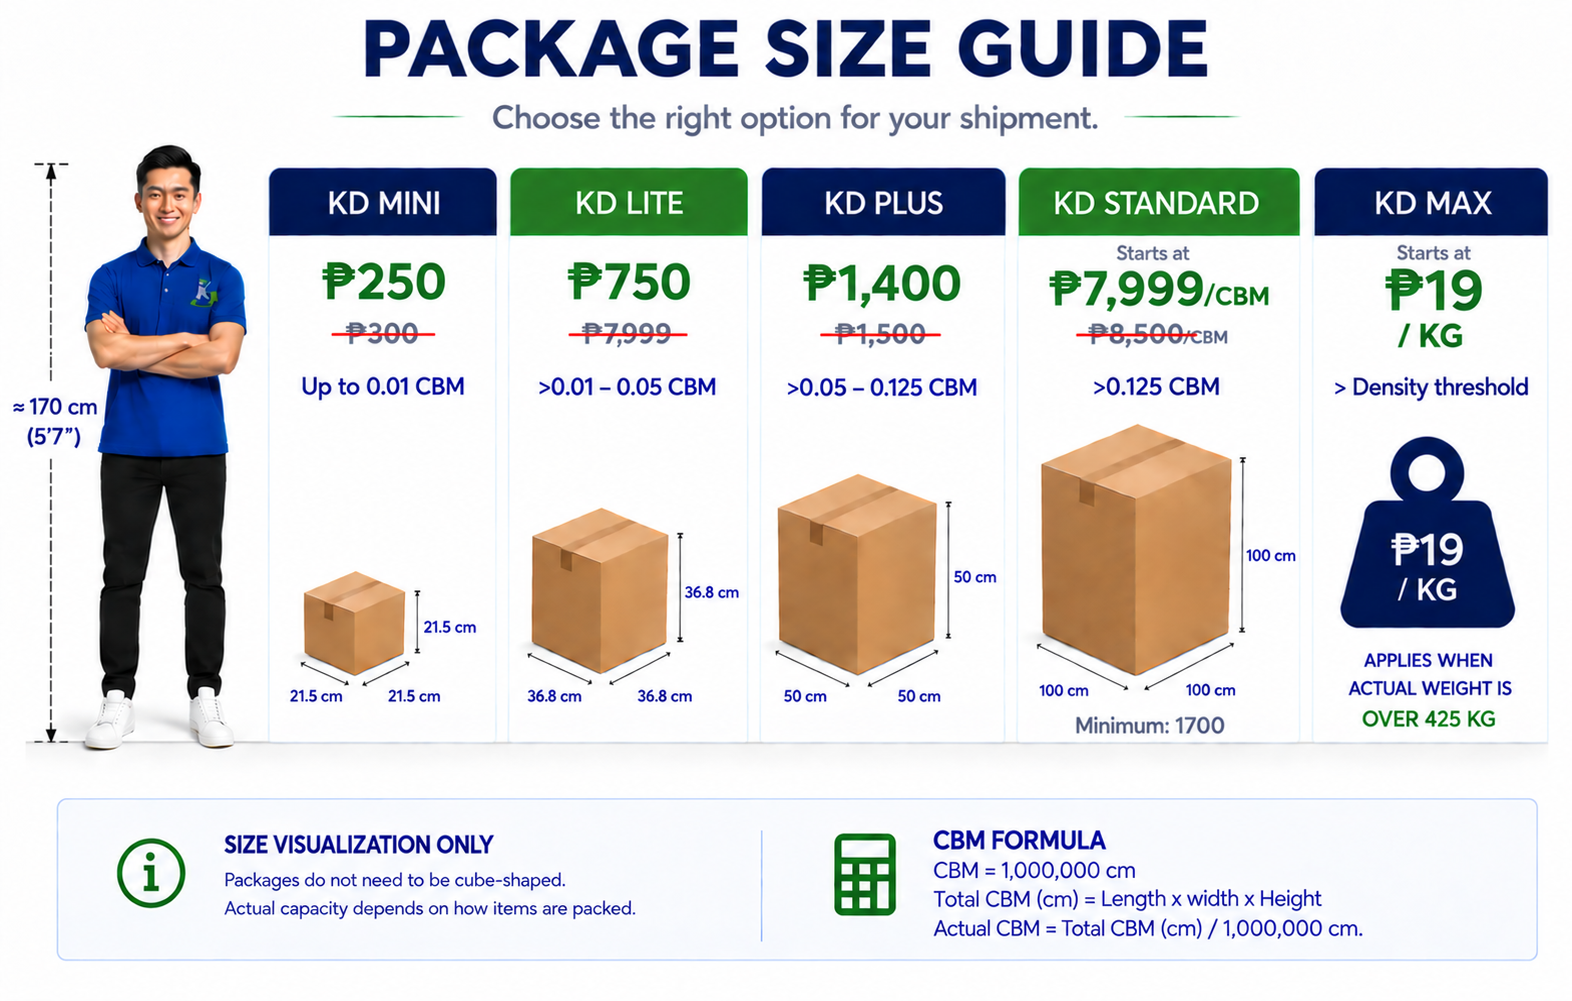
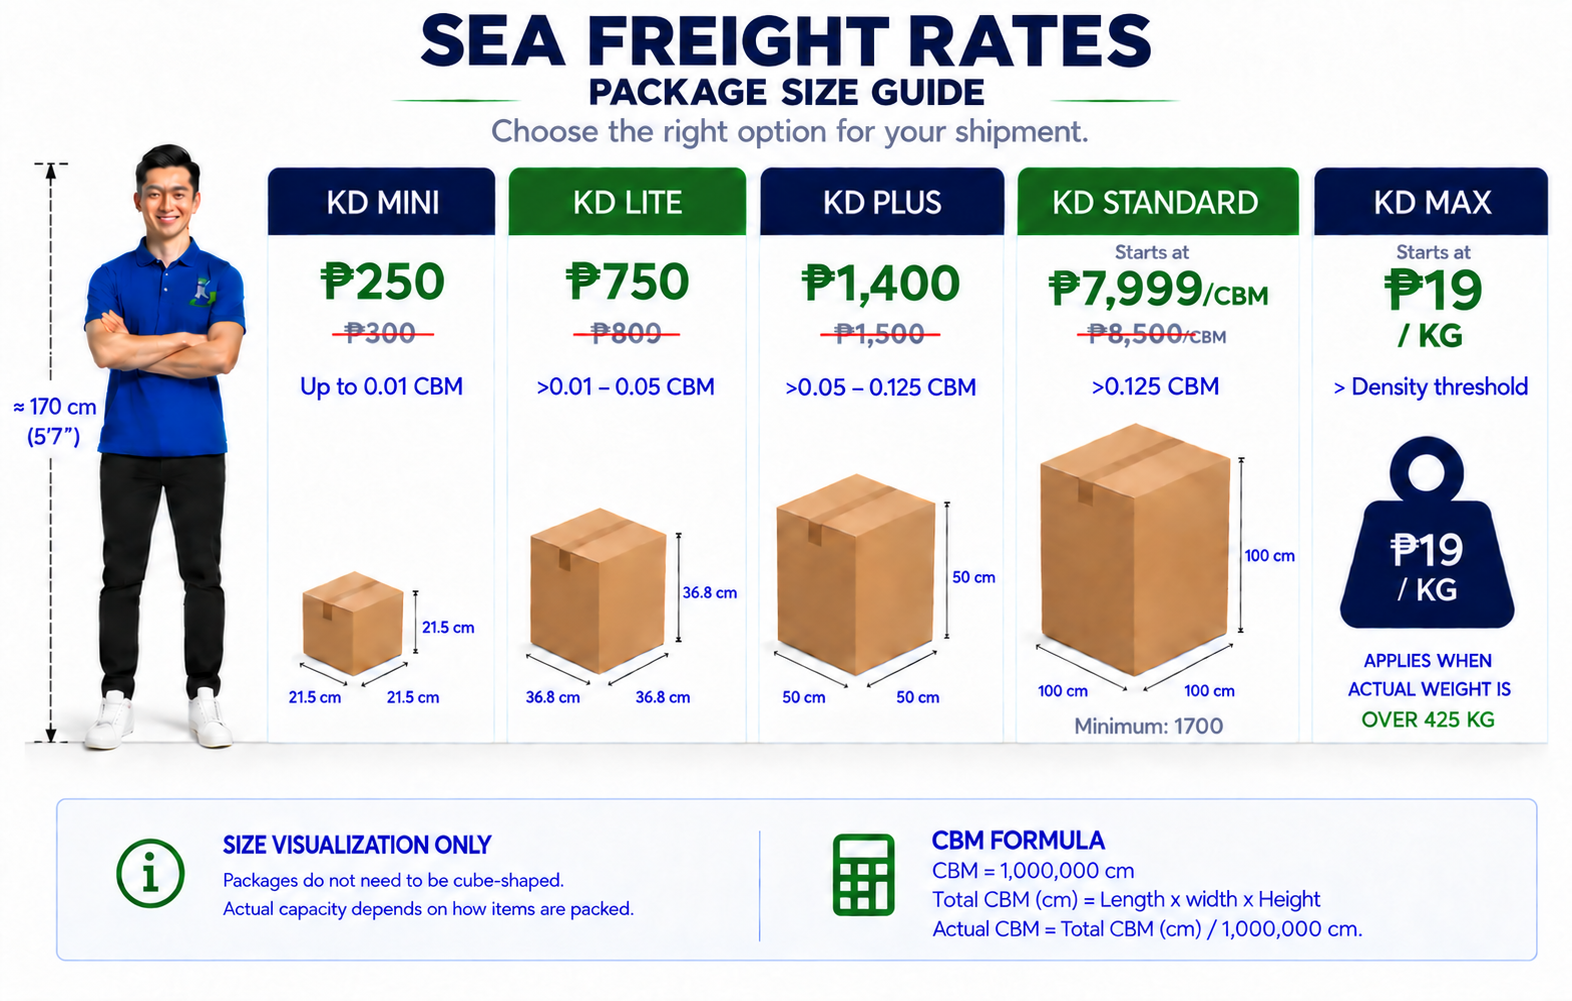
feat: add sea and air freight rate guides

diff --git a/app/rates-calculator/page.tsx b/app/rates-calculator/page.tsx
@@ -365,18 +365,26 @@ export default function RatesCalculatorPage() {
           </div>
         </section>
 
-        <section className="kd-size-guide" aria-label="Package size guide">
+        <section className="kd-size-guide" aria-label="Sea and air freight rate guides">
           <div className="kd-container kd-rates-container">
             <p className="kd-size-guide-mobile-hint">
-              Swipe to view full size guide →
+              Swipe to view each rate guide →
             </p>
 
             <div className="kd-size-guide-scroll">
               <img
                 src="/assets/kargodoor-package-size-guide-approved.png"
-                alt="Package size guide for KD Mini, KD Lite, KD Plus, KD Standard, and KD Max"
-                width={1643}
-                height={1044}
+                alt="Sea Freight Rates package size guide for KD Mini, KD Lite, KD Plus, KD Standard, and KD Max"
+                width={1572}
+                height={1001}
+                loading="lazy"
+                decoding="async"
+              />
+              <img
+                src="/assets/kargodoor-air-freight-rates-approved.png"
+                alt="Air Freight Rates starting at 450 pesos per kilogram from China to the Philippines"
+                width={1923}
+                height={818}
                 loading="lazy"
                 decoding="async"
               />

diff --git a/app/globals.css b/app/globals.css
@@ -1608,11 +1608,14 @@ display: none;
 
 .kd-size-guide-scroll {
 width: 100%;
+display: grid;
+gap: 24px;
+justify-items: center;
 }
 
 .kd-size-guide img {
 display: block;
-width: 100%;
+width: min(100%, 1080px);
 height: auto;
 }
 
@@ -2528,11 +2531,16 @@ text-align: center;
 overflow-x: auto;
 overscroll-behavior-x: contain;
 -webkit-overflow-scrolling: touch;
+display: block;
 }
 
 .kd-size-guide-scroll img {
 width: 720px;
 max-width: none;
+}
+
+.kd-size-guide-scroll img + img {
+margin-top: 18px;
 }
 
 /* FAQ MOBILE */
